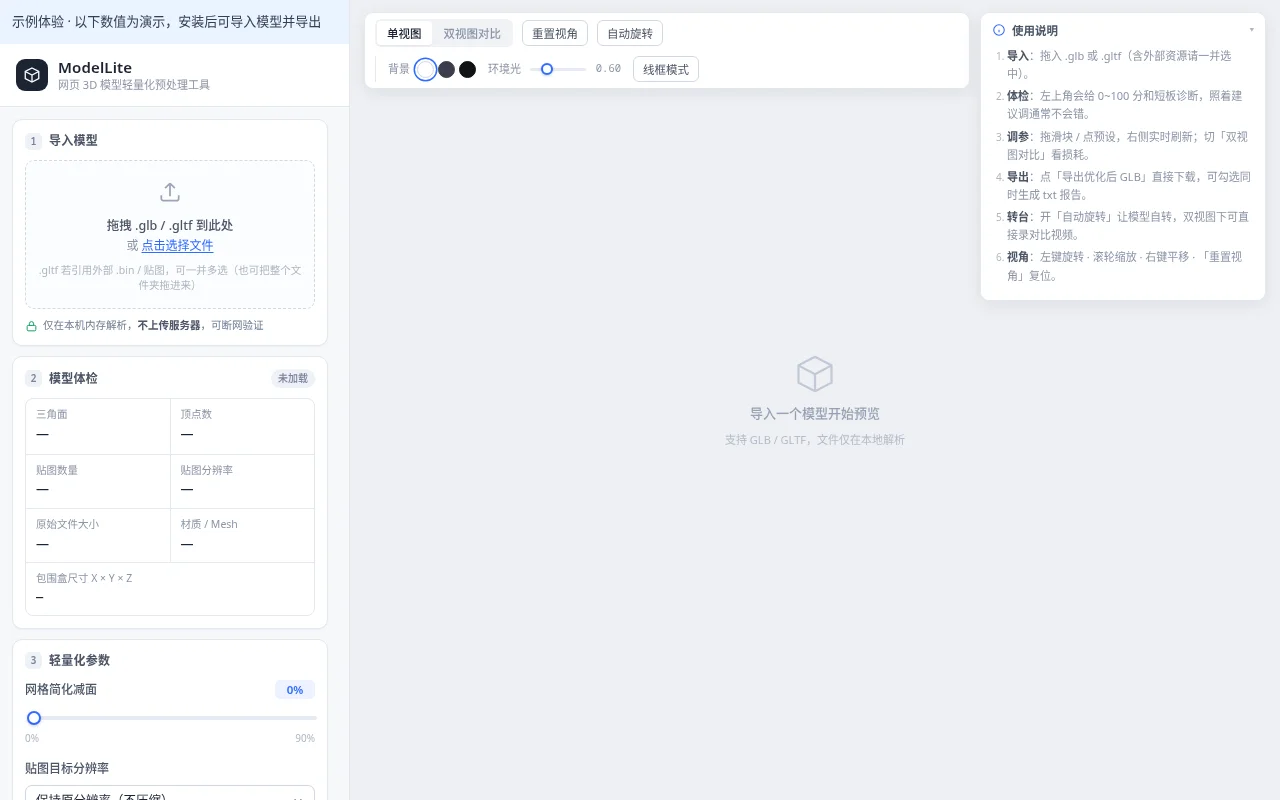
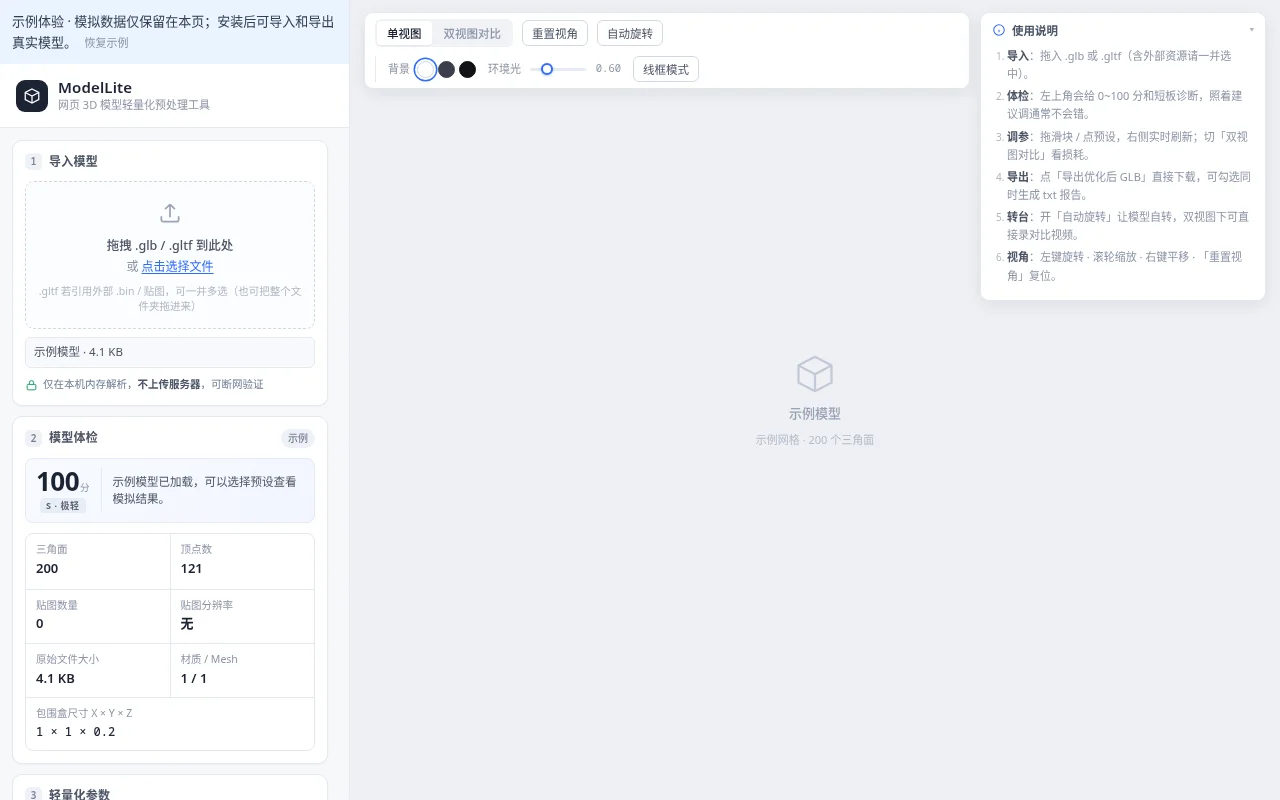
Add ModelLite 3D optimization template

diff --git a/wb1024-c232-2fe0539b/showcase/preview.html b/wb1024-c232-2fe0539b/showcase/preview.html
@@ -299,4 +299,13 @@
         <!-- 轻提示 -->
         <div class="toast-wrap" id="toast"></div>
       </main>
-    </div><script>const panel=document.querySelector('#panel');const note=document.createElement('p');note.textContent='示例体验 · 以下数值为演示，安装后可导入模型并导出';note.style.cssText='padding:12px;background:#eaf3ff;color:#334155';panel.prepend(note);document.querySelector('#dropzone').addEventListener('click',()=>{document.querySelector('#file-meta').hidden=false;document.querySelector('#file-meta').textContent='示例模型 · 4.1 KB';document.querySelector('#empty-state p').textContent='示例模型已加载';document.querySelector('#empty-state span').textContent='200 个三角面 · 121 个顶点';});document.querySelectorAll('.preset').forEach((b,i)=>b.addEventListener('click',()=>{document.querySelector('#empty-state p').textContent='示例预设已选择';document.querySelector('#empty-state span').textContent='安装后可对真实模型进行处理';}));document.querySelectorAll('button').forEach(b=>{if(/导出/.test(b.textContent)){b.disabled=true;b.title='安装后可导出'}});</script></body></html>
+    </div><script>
+const $=s=>document.querySelector(s);let loaded=true;
+const notice=document.createElement('p');notice.style.cssText='padding:12px;background:#eaf3ff;color:#334155';notice.textContent='示例体验 · 模拟数据仅保留在本页；安装后可导入和导出真实模型。';$('#panel').prepend(notice);
+const reset=document.createElement('button');reset.textContent='恢复示例';reset.className='mini';notice.append(' ',reset);
+function set(id,v){$('#'+id).textContent=v}function update(percent=0,size='original'){set('stats-tag',percent?'已优化':'示例');$('#health').hidden=false;set('health-score','100');set('health-grade','S · 极轻');set('health-advice','示例模型已加载，可以选择预设查看模拟结果。');set('st-tris',String(Math.round(200*(1-percent/100))));set('st-tris-d',percent?'-'+percent+'%':'');set('st-verts',percent?'约 '+Math.round(121*(1-percent/120)):'121');set('st-tex','0');set('st-res','无');set('st-size','4.1 KB');set('st-mat','1 / 1');set('st-bbox','1 × 1 × 0.2');$('#simplify').value=percent;set('simplify-val',percent+'%');$('#tex-size').value=size;$('#file-meta').hidden=false;set('file-meta','示例模型 · 4.1 KB');$('#empty-state p').textContent='示例模型';$('#empty-state span').textContent='示例网格 · '+Math.round(200*(1-percent/100))+' 个三角面';$('#log').textContent=percent?'示例预设：面数 200 → '+Math.round(200*(1-percent/100))+'（模拟）':'已加载示例：200 面、121 顶点';}
+reset.onclick=()=>update();$('#btn-reset').onclick=()=>update();$('#dropzone').onclick=()=>update();$('#dropzone').querySelector('input').disabled=true;
+document.querySelectorAll('.preset').forEach((b,i)=>b.onclick=()=>update([20,40,70][i],['1024','512','256'][i]));
+$('#simplify').oninput=e=>update(+e.target.value,$('#tex-size').value);$('#tex-size').onchange=e=>update(+$('#simplify').value,e.target.value);$('#clear-log').onclick=()=>$('#log').textContent='日志已清空';
+document.querySelectorAll('button').forEach(b=>{if(!b.classList.contains('preset')&&b!==reset&&b.id!=='btn-reset'&&b.id!=='clear-log'){b.disabled=true;b.title='安装后可使用';}});document.querySelectorAll('input[type=checkbox]').forEach(e=>e.disabled=true);update();
+</script></body></html>
